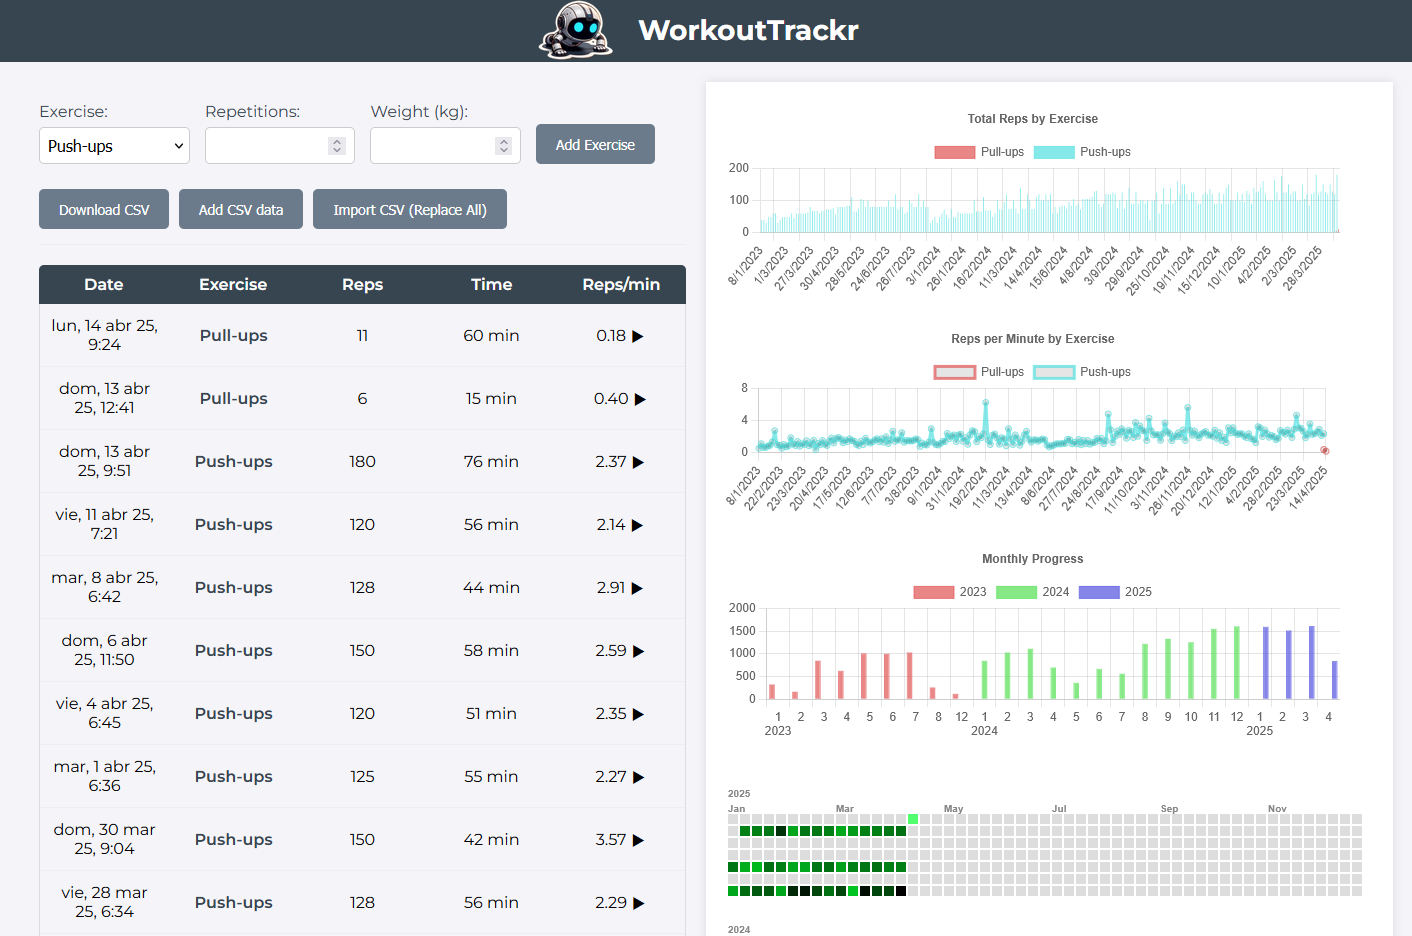
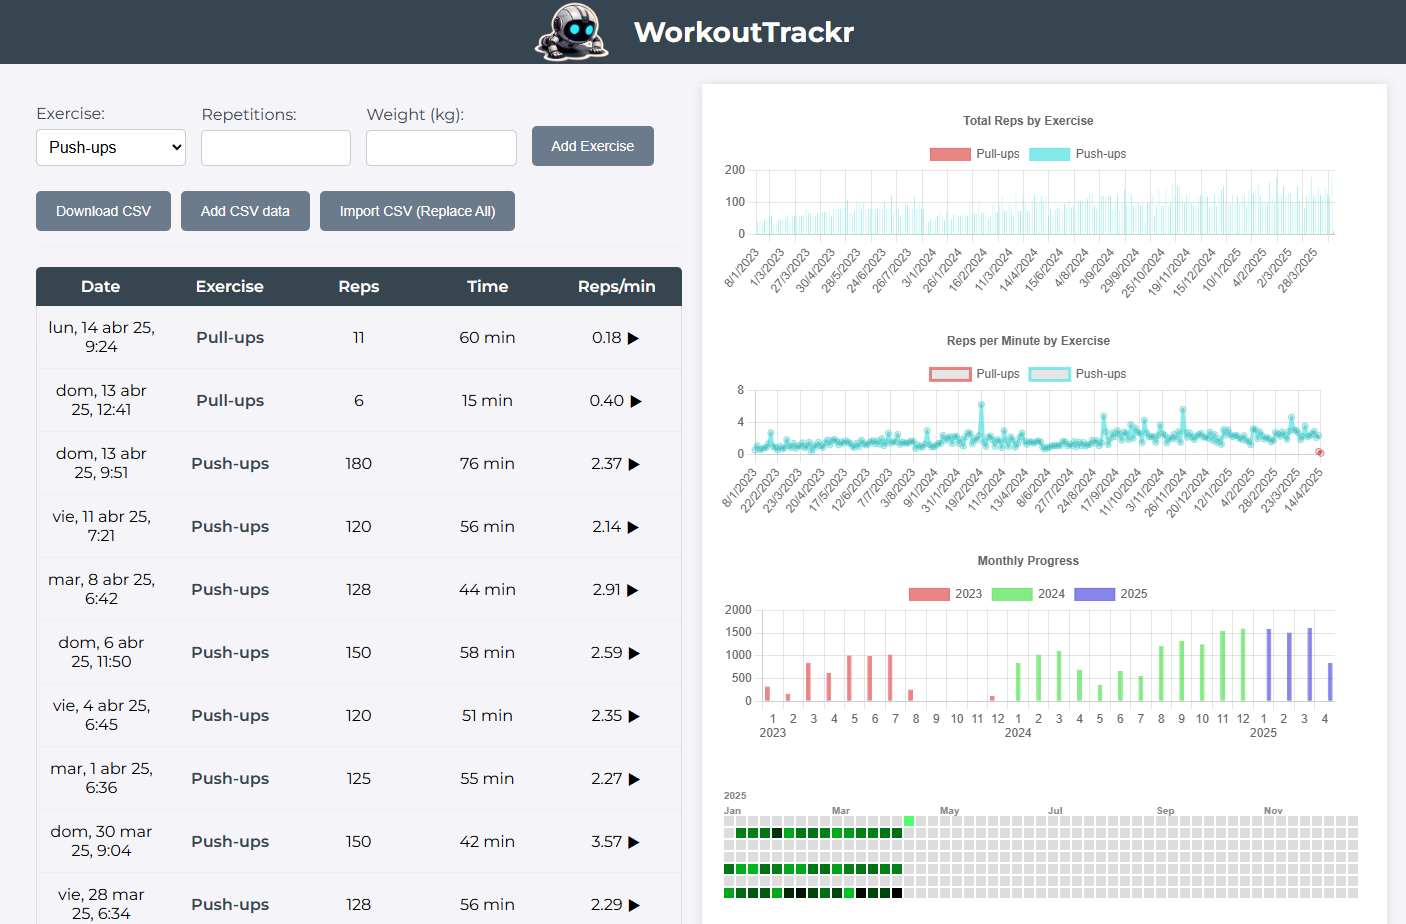
Enhance monthly chart data preparation to include all months across years

diff --git a/workouttracker.js b/workouttracker.js
@@ -456,8 +456,29 @@ function prepareMonthlyChartData() {
     const years = [...new Set(monthlyData.map(d => d.year))];
     const yearColorScale = generateColorScale(years.length);
 
-    // Sort the months chronologically (by year and month)
-    const allMonths = [...new Set(monthlyData.map(d => `${d.year}-${d.month}`))];
+    // Create a complete set of month entries for all years in the data
+    const allMonths = [];
+
+    // Find min and max year to ensure we cover the entire range
+    const minYear = Math.min(...years);
+    const maxYear = Math.max(...years);
+
+    // Get current date to limit months in current year
+    const currentDate = new Date();
+    const currentYear = currentDate.getFullYear();
+    const currentMonth = currentDate.getMonth() + 1; // JavaScript months are 0-indexed
+
+    // Generate all months for all years in the range
+    for (let year = minYear; year <= maxYear; year++) {
+        // For current year, only show months up to the current month
+        const monthLimit = (year === currentYear) ? currentMonth : 12;
+
+        for (let month = 1; month <= monthLimit; month++) {
+            allMonths.push(`${year}-${month}`);
+        }
+    }
+
+    // Sort the months chronologically
     allMonths.sort((a, b) => {
         const [yearA, monthA] = a.split('-').map(Number);
         const [yearB, monthB] = b.split('-').map(Number);
